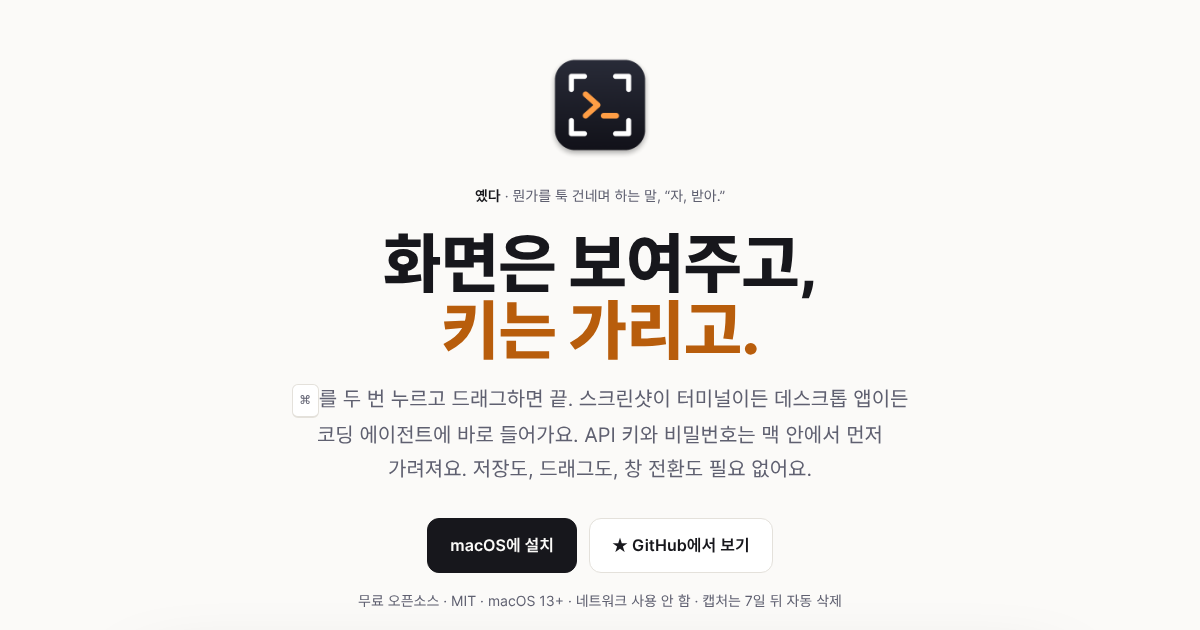
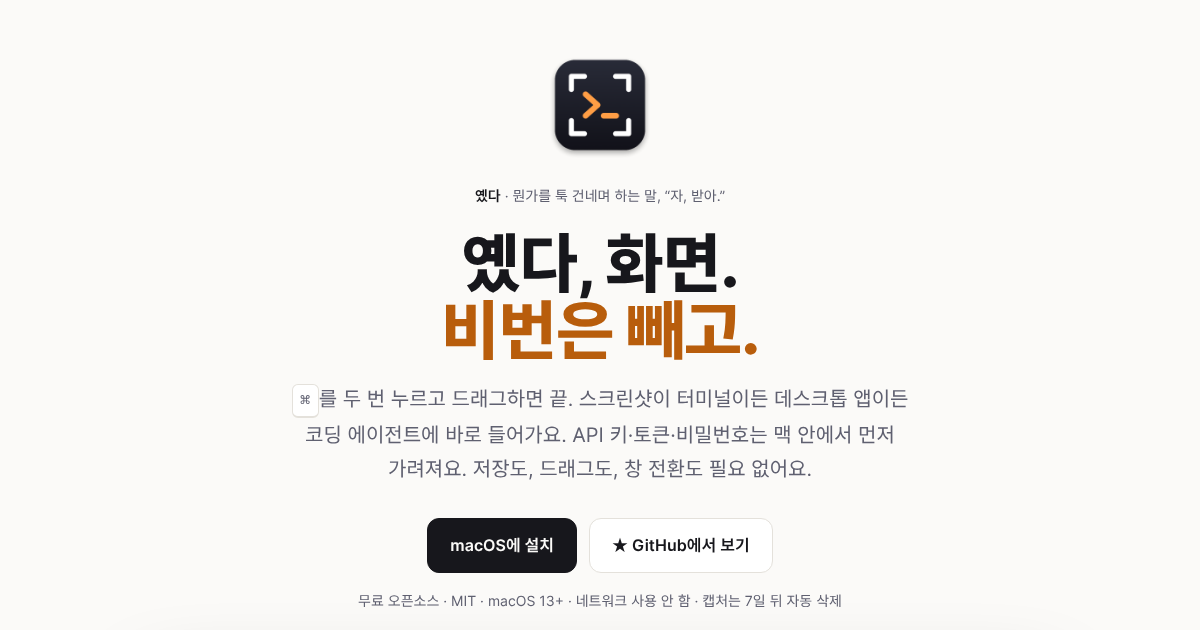
ko: 옜다, 화면. 비번은 빼고.
Claude-Session: https://claude.ai/code/session_01Fvs9D4jfzzeqk41wXqDAkK

Changed region(s): [[0.3083, 0.3619, 0.6783, 0.573], [0.2467, 0.6635, 0.74, 0.7238]]

diff --git a/docs/ko/index.html b/docs/ko/index.html
@@ -5,7 +5,7 @@
 <meta name="viewport" content="width=device-width, initial-scale=1">
 <title>Yetda(옜다) — 스크린샷을 Claude Code·Codex 등 코딩 에이전트에 바로, 키는 가려서 (macOS)</title>
 <meta name="description" content="⌘ 두 번, 드래그 한 번이면 스크린샷이 Claude Code, Codex나 그 데스크톱 앱에 들어가 있어요. API 키와 비밀번호는 맥 안에서 먼저 가려요. 무료 오픈소스 macOS 메뉴바 앱.">
-<meta property="og:title" content="Yetda: 화면은 보여주고, 키는 가리고">
+<meta property="og:title" content="Yetda: 옜다, 화면. 비번은 빼고.">
 <meta property="og:description" content="⌘ 두 번, 드래그 한 번. 스크린샷이 터미널이든 데스크톱 앱이든 에이전트에 들어가고, 키와 비밀번호는 먼저 가려져요.">
 <meta property="og:image" content="https://woonmayer.github.io/yetda/ko/og.png">
 <meta property="og:image:width" content="1200">
@@ -20,7 +20,7 @@
 <link rel="alternate" hreflang="ja" href="https://woonmayer.github.io/yetda/ja/">
 <link rel="alternate" hreflang="x-default" href="https://woonmayer.github.io/yetda/">
 <meta name="twitter:card" content="summary_large_image">
-<meta name="twitter:title" content="Yetda: 화면은 보여주고, 키는 가리고">
+<meta name="twitter:title" content="Yetda: 옜다, 화면. 비번은 빼고.">
 <meta name="twitter:description" content="⌘ 두 번, 드래그 한 번. 스크린샷이 터미널이든 데스크톱 앱이든 에이전트에 들어가고, 키와 비밀번호는 먼저 가려져요.">
 <meta name="twitter:image" content="https://woonmayer.github.io/yetda/ko/og.png">
 <script type="application/ld+json">
@@ -371,8 +371,8 @@
   <header class="hero">
     <img class="logo" src="../icon.png" alt="Yetda 아이콘">
     <div class="origin"><span>옜다</span> · 뭔가를 툭 건네며 하는 말, “자, 받아.”</div>
-    <h1>화면은 보여주고,<br><span class="hl">키는 가리고.</span></h1>
-    <p class="sub"><kbd>⌘</kbd>를 두 번 누르고 드래그하면 끝. 스크린샷이 터미널이든 데스크톱 앱이든 코딩 에이전트에 바로 들어가요. API 키와 비밀번호는 맥 안에서 먼저 가려져요. 저장도, 드래그도, 창 전환도 필요 없어요.</p>
+    <h1>옜다, 화면.<br><span class="hl">비번은 빼고.</span></h1>
+    <p class="sub"><kbd>⌘</kbd>를 두 번 누르고 드래그하면 끝. 스크린샷이 터미널이든 데스크톱 앱이든 코딩 에이전트에 바로 들어가요. API 키·토큰·비밀번호는 맥 안에서 먼저 가려져요. 저장도, 드래그도, 창 전환도 필요 없어요.</p>
     <div class="cta">
       <a class="btn primary" href="#install">macOS에 설치</a>
       <a class="btn" href="https://github.com/woonmayer/yetda">★ GitHub에서 보기</a>
